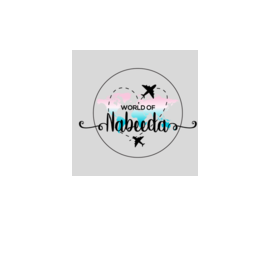
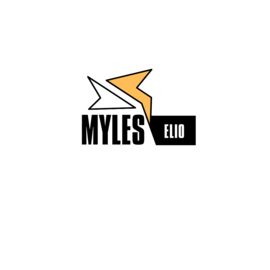
updated content

Changed region(s): [[0.2667, 0.1778, 0.7407, 0.6519]]

diff --git a/components/TopBar/TopBar.js b/components/TopBar/TopBar.js
@@ -1,4 +1,4 @@
-import {BsTwitter, BsFacebook, BsInstagram, BsYoutube} from 'react-icons/bs';
+import {BsTwitter, BsInstagram, BsGithub, BsLinkedin} from 'react-icons/bs';
 
 
 export default function TopBar() {
@@ -9,17 +9,11 @@ export default function TopBar() {
                 <div className="socialContainer">
                     <ul>
                         <li>
-                            <a href="https://twitter.com/worldofnabeeda" target="_blank" rel="noreferrer" >
-                                <BsTwitter className="socialLink" />
-                            </a>
-                            <a href="https://www.facebook.com/worldofnabeeda" target="_blank" rel="noreferrer" >
-                                <BsFacebook className="socialLink" />
-                            </a>
-                            <a  href="https://www.instagram.com/worldofnabeeda/?hl=en" target="_blank" rel="noreferrer">
+                            <a  href="https://www.instagram.com/touristinyouth/?hl=en" target="_blank" rel="noreferrer">
                                 <BsInstagram className="socialLink" />
                             </a>
-                            <a href="https://www.youtube.com/channel/UCWPYFsoJUNmbcqazVpQMW3w" target="_blank" rel="noreferrer">
-                                <BsYoutube className="socialLink" />
+                            <a href="https://www.linkedin.com/in/myles-elio-mceachan-32238b210/" target="_blank" rel="noreferrer">
+                                <BsLinkedin className="socialLink" />
                             </a>
                         </li>
                     </ul>

diff --git a/components/Navigation/Desktop/DesktopNav.js b/components/Navigation/Desktop/DesktopNav.js
@@ -12,19 +12,22 @@ export default function DesktopNav() {
                     <div className="imageContainer">
                         <img  alt="world of nabeeda logo" 
                                 className="navLogo" 
-                                src="https://res.cloudinary.com/tommceachan/image/upload/v1639073186/Logo_Transparent_01_25b1dcad52.png"/>
+                                src="https://res.cloudinary.com/tommceachan/image/upload/v1643881203/m_2_Photo_Room_9ed5a2a190.png"/>
                     </div>
                 </Link>
                 <ul>
                     <li>
-                        <Link href="/travel" passHref>
-                            <a className="menuLink">Travel</a>
+                        <Link href="/culture" passHref>
+                            <a className="menuLink">Culture</a>
                         </Link>
                         <Link href="/lifestyle" passHref>
                             <a className="menuLink">Lifestyle</a>
                         </Link>
-                        <Link href="/careers" passHref>
-                            <a className="menuLink">Careers</a>
+                        <Link href="/current-affairs" passHref>
+                            <a className="menuLink">Current Affairs</a>
+                        </Link>
+                        <Link href="/arts-and-literature" passHref>
+                            <a className="menuLink">Arts &amp; Literature</a>
                         </Link>
                         <Link href="/all" passHref>
                             <a className="menuLink">All</a>

diff --git a/components/PagePreview/PagePreview.js b/components/PagePreview/PagePreview.js
@@ -10,7 +10,7 @@ return(
         <Grid item xs={12} md={6} xl={4}>
             <Item>
                 <div className="desktopContainer">
-                    <Link href={`/posts/${posts.title}`} passHref> 
+                    <Link href={`/posts/${posts.pagetitle}`} passHref> 
                         <a><img alt={posts.image[0].caption} src={posts.image[0].formats.medium.url} className="previewImageSmall" /> </a> 
                     </Link>
                     <div className="postPreviewContentSmall">
@@ -19,7 +19,7 @@ return(
                             <p>By <Link href="https://twitter.com/worldofnabeeda"><a className="authorName">Nabeeda Bakali</a></Link></p>
                         </div>
                         <p className="postDescription">{posts.description}</p>
-                        <Link href={`posts/${posts.title}`} passHref>  
+                        <Link href={`posts/${posts.pagetitle}`} passHref>  
                             <button className="readMoreButton">Read More</button>
                         </Link>
                     </div>                 

diff --git a/pages/_app.js b/pages/_app.js
@@ -7,16 +7,16 @@ import Head from "next/head";
 import '../styles/index.scss';
 import Script from 'next/script';
 
-axios.defaults.baseURL= "https://worldofnabeeda-strapi.herokuapp.com";
+axios.defaults.baseURL= "https://mylesmceachan-blog-cms.herokuapp.com";
 
 //Returns the App to the Browser
-export default function MyApp({ Component, pageProps, latestPosts}) {
+export default function MyApp({ Component, pageProps}) {
 
   return (
   <div className="app">
     <Head>
-      <title>World of Nabeeda</title>
-      <meta name="description" content="World of Nabeeda Blog" />
+      <title>Myles McEachan - Blog </title>
+      <meta name="description" content="Tom McEachan Blog" />
       <link rel="apple-touch-icon" sizes="180x180" href="/apple-touch-icon.png" />
       <link rel="icon" type="image/png" sizes="32x32" href="/favicon-32x32.png" />    
       <link rel="icon" type="image/png" sizes="16x16" href="/favicon-16x16.png" />

diff --git a/pages/index.js b/pages/index.js
@@ -28,7 +28,7 @@ export async function getStaticProps() {
   const featuredPostRes = await axios.get("/posts?featured=true")
 
   //This queries the CMS for all the posts that fall under the 'travel' category 
-  const travelPostRes = await axios.get("/categories?name=travel");
+  const travelPostRes = await axios.get("/categories?name=games");
   
   
   //Returns data from api as a prop to be use in component
